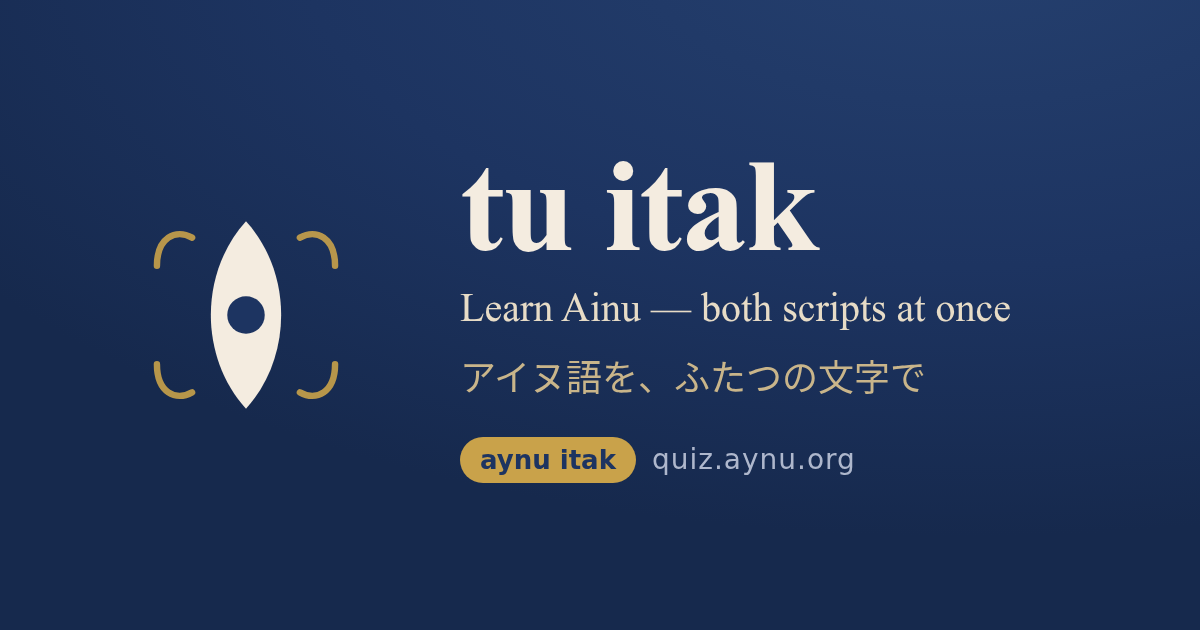
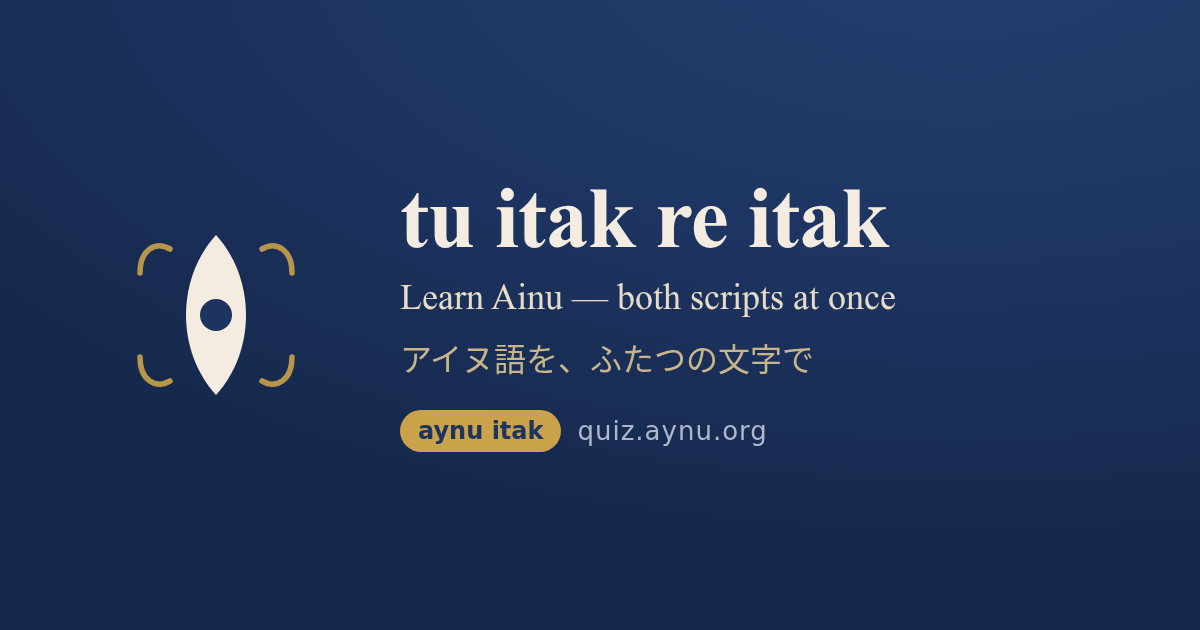
Rebrand to "tu itak re itak" (many languages)
New name uses the Ainu "tu… re…" (two… three…) doubling that idiomatically
means "many" — fitting the multilingual UI + multi-script nature.

- Display name updated everywhere user-facing: i18n app.name (ja/en), <title>,
  Open Graph / Twitter titles + alt, JSON-LD name/alternateName, manifest name,
  README + DESIGN headers (with the new idiom gloss), SVG aria-labels.
- Regenerated og.png with the new wordmark.
- Kept internal identifiers unchanged on purpose: localStorage keys
  (tu-itak:*), Cloudflare worker name, course id, package name, and the PWA
  short_name ("tu itak", the home-screen label) — so testers keep their
  progress and the deploy/infra doesn't churn.

diff --git a/src/app.html b/src/app.html
@@ -4,7 +4,7 @@
 		<meta charset="utf-8" />
 		<meta name="viewport" content="width=device-width, initial-scale=1, viewport-fit=cover" />
 
-		<title>tu itak — Learn Ainu | アイヌ語を学ぼう</title>
+		<title>tu itak re itak — Learn Ainu | アイヌ語を学ぼう</title>
 		<meta
 			name="description"
 			content="Learn Ainu the Duolingo way: free, bite-sized lessons in Latin script and Katakana, with a distinctly Ainu design. アイヌ語を、ラテン文字とカタカナで楽しく学べる無料アプリ。"
@@ -29,8 +29,8 @@
 
 		<!-- Open Graph -->
 		<meta property="og:type" content="website" />
-		<meta property="og:site_name" content="tu itak" />
-		<meta property="og:title" content="tu itak — Learn Ainu" />
+		<meta property="og:site_name" content="tu itak re itak" />
+		<meta property="og:title" content="tu itak re itak — Learn Ainu" />
 		<meta
 			property="og:description"
 			content="Learn Ainu the Duolingo way: bite-sized lessons in Latin and Katakana. アイヌ語を、ふたつの文字で楽しく学べる無料アプリ。"
@@ -39,13 +39,13 @@
 		<meta property="og:image" content="https://quiz.aynu.org/og.png" />
 		<meta property="og:image:width" content="1200" />
 		<meta property="og:image:height" content="630" />
-		<meta property="og:image:alt" content="tu itak — Learn Ainu, both scripts at once" />
+		<meta property="og:image:alt" content="tu itak re itak — Learn Ainu, both scripts at once" />
 		<meta property="og:locale" content="ja_JP" />
 		<meta property="og:locale:alternate" content="en_US" />
 
 		<!-- Twitter -->
 		<meta name="twitter:card" content="summary_large_image" />
-		<meta name="twitter:title" content="tu itak — Learn Ainu" />
+		<meta name="twitter:title" content="tu itak re itak — Learn Ainu" />
 		<meta
 			name="twitter:description"
 			content="Learn Ainu the Duolingo way: bite-sized lessons in Latin and Katakana. アイヌ語を、ふたつの文字で。"
@@ -59,8 +59,8 @@
 			{
 				"@context": "https://schema.org",
 				"@type": "WebApplication",
-				"name": "tu itak",
-				"alternateName": "tu itak — Learn Ainu",
+				"name": "tu itak re itak",
+				"alternateName": "tu itak re itak — Learn Ainu",
 				"url": "https://quiz.aynu.org/",
 				"description": "Learn the Ainu language the Duolingo way: free, bite-sized lessons in Latin script and Katakana.",
 				"applicationCategory": "EducationalApplication",

diff --git a/src/lib/i18n/messages.ts b/src/lib/i18n/messages.ts
@@ -7,7 +7,7 @@
  */
 export const messages = {
 	en: {
-		'app.name': 'tu itak',
+		'app.name': 'tu itak re itak',
 		'app.tagline': 'Learn Ainu — both scripts at once',
 
 		'nav.learn': 'Learn',
@@ -110,7 +110,7 @@ export const messages = {
 	},
 
 	ja: {
-		'app.name': 'tu itak',
+		'app.name': 'tu itak re itak',
 		'app.tagline': 'アイヌ語を、ふたつの文字で',
 
 		'nav.learn': 'まなぶ',

diff --git a/README.md b/README.md
@@ -1,6 +1,7 @@
-# tu itak — learn Ainu, the Duolingo way
+# tu itak re itak — learn Ainu, the Duolingo way
 
-**tu itak** (アイヌ語 _"two words / two languages"_) is a gamified Ainu-language
+**tu itak re itak** (アイヌ語 _"two words, three words" — the "tu… re…" doubling that
+idiomatically means "many languages"_) is a gamified Ainu-language
 quiz app. It reproduces Duolingo's _mechanics, timing and feel_ — the serpentine
 path, the bouncing START bubble, the tactile CHECK button, hearts, streaks,
 crowns, combos, the slide-up result banner — wearing a distinctly **Ainu** visual

diff --git a/docs/DESIGN.md b/docs/DESIGN.md
@@ -1,6 +1,7 @@
-# tu itak — design system
+# tu itak re itak — design system
 
-**tu itak** ("two words/languages" in Ainu) is a Duolingo-style quiz for learning
+**tu itak re itak** ("two words, three words" in Ainu — the "tu… re…" doubling for
+"many languages") is a Duolingo-style quiz for learning
 Ainu. It replicates Duolingo's *mechanics, timing and feel* while wearing a
 distinctly Ainu visual identity — never Duolingo's cartoon style.
 
